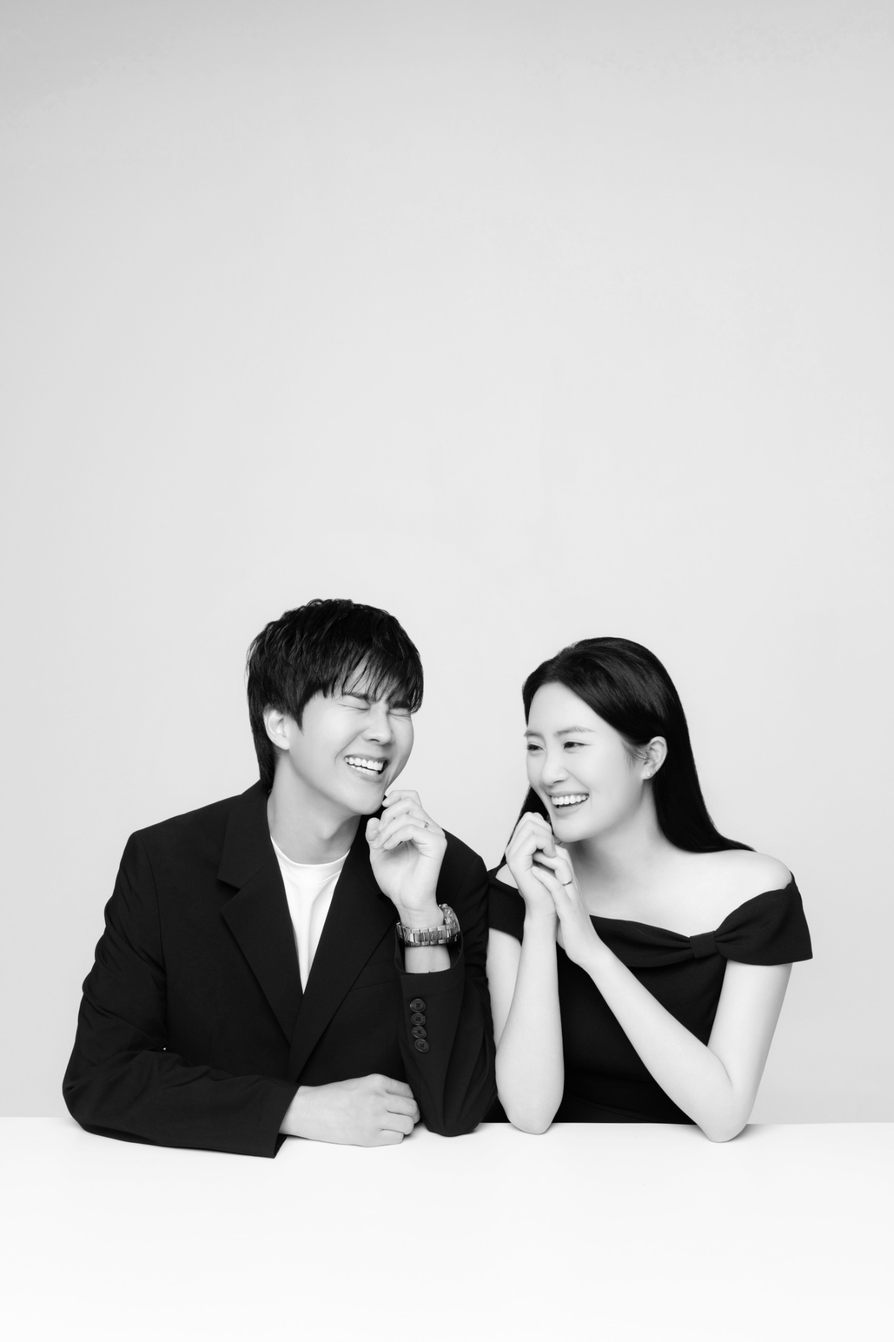
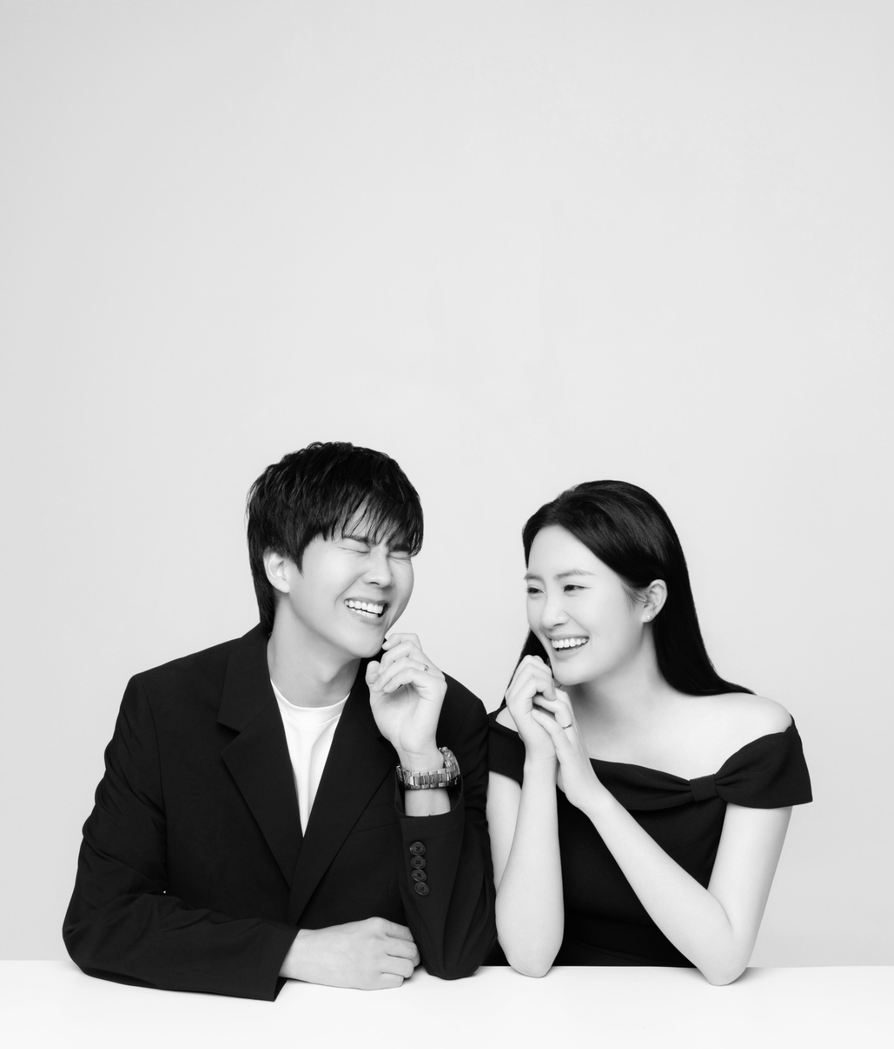
Add files via upload

Changed region(s): [[0.0, 0.4062, 1.0, 0.9688]]

diff --git a/style.css b/style.css
@@ -1,4 +1,4 @@
-@font-face{font-family:"Ortica";src:url("./assets/OrticaLinear-Light.otf") format("opentype");font-weight:400;font-style:normal;font-display:swap;}:root{--orange:#FF650B;--black:#111111;--fg:#c7c1be;--muted:#908986;--copper:#ab7e6d;--line:#353332;--font:'Pretendard',sans-serif;--display:'Italiana','Playfair Display',serif}@font-face{font-family:'BodoniCustom';src:url('./assets/Bodoni-11-Book.otf?v=12') format('opentype');font-weight:100;font-style:normal;font-display:swap;}*{box-sizing:border-box}html{scroll-behavior:smooth}body{margin:0;background:#e9e9e9;color:var(--fg);font-family:var(--font);-webkit-font-smoothing:antialiased}button,input,textarea{font:inherit}button{cursor:pointer}button:focus-visible,a:focus-visible,input:focus-visible{outline:2px solid var(--orange);outline-offset:3px}a{color:inherit;text-decoration:none}.page{width:min(100%,430px);margin:auto;background:var(--black);min-height:100vh;overflow:hidden;position:relative}.site-header{position:fixed;z-index:20;top:0;left:50%;transform:translateX(-50%);width:min(100%,430px);height:52px;background:var(--orange);color:#f7e7dd;display:flex;align-items:center;justify-content:flex-end;padding:0 23px;font-family:'Playfair Display',serif;font-size:22px;transition:background .25s,color .25s}.site-header.over-photo{background:transparent;color:#fff}.icon-button{border:0;background:none;color:inherit;padding:2px}.icon-button svg{width:23px;height:23px;fill:none;stroke:currentColor;stroke-width:1.6}.menu{position:fixed;z-index:19;top:52px;left:50%;transform:translateX(-50%) translateY(-110%);width:min(100%,430px);background:#1c1b1b;color:#eee;padding:18px 30px;display:grid;gap:20px;transition:transform .3s}.menu.open{transform:translateX(-50%) translateY(0)}.menu a{font-family:var(--display);font-size:24px}.audio-toggle{position:fixed;z-index:22;top:14px;right:max(12px,calc((100vw - 430px)/2 + 14px));background:rgba(20,20,20,.18);border:0;border-radius:50%;width:37px;height:37px;display:grid;place-items:center;color:#fafafa}.audio-toggle svg{width:21px;height:21px;fill:none;stroke:currentColor;stroke-width:1.5}.cover{background:var(--orange);min-height:100svh;display:flex;flex-direction:column;text-align:center;color:#130b06}.cover-top{padding-top:52px;background:var(--orange)}.cover-inner{display:flex;flex-direction:column;align-items:center;justify-content:flex-start;padding:18px 18px 18px;background:var(--orange)}.cover-photo{width:100%;margin:0;padding:0 0 20px;background:var(--orange);overflow:hidden}.cover-photo img{display:block;width:100%;height:auto;max-width:none;max-height:none;object-fit:unset;filter:grayscale(1);transform:none;clip-path:inset(70px 0 0 0)}.cover-meta{background:var(--orange);margin-top:-6px;padding:8px 18px 20px;text-align:center}.cover-datetime{margin:0 0 8px;display:flex;align-items:baseline;justify-content:center;gap:8px;flex-wrap:wrap}.cover-date{font-family:'Pretendard',sans-serif;font-size:30px;font-weight:500;letter-spacing:.015em;line-height:1;color:#8F421E}.cover-when{font-family:'Pretendard','Apple SD Gothic Neo',sans-serif;font-size:15px;letter-spacing:.04em;color:#8F421E}.cover-where{font-family:'Pretendard','Apple SD Gothic Neo',sans-serif;font-size:15px;letter-spacing:.04em;color:#8F421E;margin:0}.intro-meta{font-family:'Pretendard','Apple SD Gothic Neo',sans-serif;font-size:15px;letter-spacing:.04em;color:#8F421E}.cover-kicker{font-size:12px;color:#8F421E !important;margin:0 0 22px;letter-spacing:.15em;font-weight:400;transform:translateY(-8px)}.couple{display:flex;flex-direction:column;align-items:center;font-family:'BodoniCustom','Bodoni 72','Times New Roman',serif;font-size:24px;letter-spacing:-.015em;font-weight:400;line-height:1.08;margin:0;color:#121212;white-space:nowrap;text-rendering:optimizeLegibility;-webkit-font-smoothing:antialiased;-moz-osx-font-smoothing:grayscale}.couple span{display:block;font-family:'BodoniCustom','Bodoni 72','Times New Roman',serif;font-weight:400}.couple em{font-family:'BodoniCustom','Bodoni 72','Times New Roman',serif;font-style:normal;font-size:17px;line-height:1.9;color:rgba(78,40,16,.72);font-weight:200}.cover-date{font-family:'Pretendard',sans-serif;font-size:30px;font-weight:500;letter-spacing:.015em;line-height:1;margin:0 0 8px;color:#8F421E}.cover-when,.cover-where{font-family:'Pretendard','Apple SD Gothic Neo',sans-serif;font-size:15px;letter-spacing:.04em;color:#8F421E}.cover-when{margin:0 0 8px}.cover-where{margin:0}.dark-content{background:var(--black)}.section{padding:110px 22px;text-align:center;scroll-margin-top:50px}.display{font-family:var(--display);font-weight:400;letter-spacing:-.04em}.intro{min-height:511px;display:flex;flex-direction:column;align-items:center;justify-content:flex-start;padding-top:84px}.display-intro{font-family:"Ortica","Noto Sans KR",sans-serif;font-size:1.875rem;font-weight:400;line-height:1.375;letter-spacing:-.04em;color:#D4CFC8;text-align:center;white-space:pre-line;opacity:1;margin:0;-webkit-font-smoothing:antialiased}.display-intro i{font-style:normal}.family{margin-top:118px;font-size:15px;line-height:2.7}.family p{margin:0}.family strong{color:#e0dcda;font-weight:600}.family small{font-size:11px;color:#878080;margin:0 8px}.eyebrow{font:400 11px 'DM Sans',sans-serif;letter-spacing:.22em;color:var(--copper);margin:0}.invitation-note{padding-top:51px;padding-bottom:105px}.poem{margin-top:52px;text-align:left;padding:0 15px;color:#bbb5b2;font-size:16px;line-height:2.05}.poem p{margin:0}.poem span{font-size:12px;display:block;margin-top:2px;color:#8c8581}.invite-copy{text-align:center;padding:0 15px;margin-top:52px;font-size:15px;line-height:2.15;color:#aea8a5}.invite-copy p+p{margin-top:25px}.calendar-section{padding-top:76px;padding-bottom:100px}.date-title{font-family:'Pretendard',sans-serif;font-size:30px;font-weight:500;letter-spacing:.015em;line-height:1;margin:0}.date-sub{font-weight:500;font-size:17px;margin:9px 0 31px}.calendar{border-top:1px solid #333;padding-top:24px;display:grid;grid-template-columns:repeat(7,1fr);row-gap:12px}.day-label,.calendar-day{height:34px;display:grid;place-items:center;font:17px 'Playfair Display',serif;color:#98918c}.day-label{font-size:15px}.calendar .sunday,.calendar .holiday{color:#c2584f}.calendar .selected{border-radius:50%;background:#c8c4bf;color:#fff;width:35px;margin:auto}.gallery-section{padding:65px 15px 110px}.gallery-grid{display:grid;grid-template-columns:repeat(3,minmax(0,1fr));gap:2px;margin-top:40px}.gallery-item{position:relative;aspect-ratio:1/1.16;border:0;padding:0;background:#35312f;color:#ddd;overflow:hidden}.gallery-item img{width:100%;height:100%;object-fit:cover;display:block}.gallery-item .missing{position:absolute;inset:0;display:grid;place-items:center;color:#777;font:22px var(--display)}.gallery-item img:not([style*='none'])+.missing{display:none}.more-overlay{position:absolute;inset:0;background:rgba(0,0,0,.55);display:flex;align-items:center;justify-content:center;flex-direction:column;font:18px var(--display);letter-spacing:.2em}.more-overlay small{font:10px var(--font);letter-spacing:.25em;margin-top:4px}.letters-section{padding-top:90px;padding-bottom:135px}.section-heading{font-size:44px;margin:0 0 25px}.support-copy{font-size:15px;line-height:2;color:#aaa29e}.envelope{position:relative;width:min(100%,275px);height:180px;background:#ede9db;margin:44px auto 0;border:0;box-shadow:0 5px 22px rgba(0,0,0,.25);color:#383431;overflow:hidden}.envelope:before,.envelope:after{content:'';position:absolute;bottom:-75px;width:260px;height:260px;border:1px solid #c9c3b5;transform:rotate(45deg)}.envelope:before{left:-196px}.envelope:after{right:-196px}.envelope-top{position:absolute;top:-137px;left:25px;width:225px;height:225px;transform:rotate(45deg);border-right:2px solid #bbb5a8;border-bottom:2px solid #bbb5a8}.envelope-text{position:relative;display:grid;gap:14px;z-index:1;place-items:center}.envelope-text small{letter-spacing:.2em;color:#a49d90;font-size:9px}.envelope-text b{font:25px/1.1 var(--display)}.hint{font-size:12px;color:#69625f;margin:13px 0 42px}.pill{min-width:154px;border:1px solid #5d5957;border-radius:60px;background:#2a2929;color:#ddd;padding:17px 28px;font-size:14px;letter-spacing:.07em}.pill:active{transform:scale(.98)}.location-section{padding-top:85px;padding-bottom:95px}.location-name{font-size:22px;margin:43px 0 9px;color:#dad4d0}.location-detail{font-size:15px;line-height:1.9;color:#89817c;margin:0 0 34px}.kakao-map{height:226px;background:#e8e4dc;color:#777;display:grid;place-items:center}.map-placeholder{font-size:13px;padding:20px}.map-links{display:flex;gap:6px;margin-top:26px}.map-links a{flex:1;min-width:0;border:1px solid #494747;background:#252424;border-radius:35px;padding:12px 1px;font-size:12px;color:#c8c1bd}.transit{margin-top:48px;font-size:14px;line-height:1.9;color:#96908c}.transit h3{font-size:15px;margin:36px 0 8px;color:#c9c3c0}.transit p{margin:0}.rsvp-section{padding:110px 17px 120px}.rsvp-section .support-copy{margin-bottom:43px}.account-section{padding:60px 22px 100px}.account-section>.support-copy{margin:37px 0 50px}.accordion-title{width:100%;padding:18px 0;border:0;background:none;color:#d2cbc7;text-align:left;font-weight:600;font-size:15px;display:flex;justify-content:space-between}.accordion-title span{font-size:26px;line-height:15px;color:#999}.accordion-body{display:none;text-align:left}.accordion-title[aria-expanded=true]+.accordion-body{display:block}.bank-row{padding:23px 8px 23px 12px;display:flex;justify-content:space-between;align-items:center;background:#151515;margin:5px 0}.bank-row strong,.bank-row small{display:block}.bank-row strong{font-size:14px}.bank-row small{color:#89827e;font-size:12px;margin-top:8px}.bank-row button{background:#262626;border:1px solid #4d4a49;color:#ddd;width:36px;height:36px;font-size:24px}.gratitude-section{background:#0d0d0d;padding:112px 22px 105px;font-size:15px;line-height:2;color:#96908b}.gratitude-section h2{font-size:18px;font-weight:500;margin:45px 0 23px;color:#d7d0cc}.gratitude-section p:not(.eyebrow){margin:18px 0 34px}.footer{background:#0b0b0b;padding:80px 20px 27px}.footer>.support-copy{margin:23px 0 39px}.share-actions{display:flex;justify-content:center;gap:37px}.share-actions button{border:0;background:none;color:#a19a95;font-size:10px;letter-spacing:.2em;display:grid;justify-items:center;gap:11px}.share-circle{width:45px;height:45px;border-radius:50%;background:#212121;display:grid;place-items:center}.share-circle svg{width:23px;height:23px;fill:none;stroke:#bdb5b0;stroke-width:1.5}.share-actions button:first-child svg{fill:#bdb5b0;stroke:none}.copyright{margin-top:115px;color:#5c5551;font-size:10px;letter-spacing:.12em}.overlay{position:fixed;z-index:100;inset:0;background:rgba(0,0,0,.8);display:flex;align-items:center;justify-content:center;padding:20px}.overlay[hidden]{display:none!important}.dialog{width:min(100%,340px);background:#1e1c1c;border:1px solid #5c514c;text-align:center;padding:45px 25px;color:#e3dcd7}.dialog h2{font:57px var(--display);margin:25px 0}.dialog p:not(.eyebrow){line-height:2}.light-pill{background:#e9e5df;color:#24201d;margin-top:26px}.lightbox-shell{max-width:600px;width:100%;position:relative;text-align:center}.lightbox-shell img{max-width:100%;max-height:75dvh;object-fit:contain}.modal-x{position:absolute;right:12px;top:12px;font-size:30px;color:#eee;background:transparent;border:0;z-index:2}.lightbox-controls{display:flex;align-items:center;justify-content:center;gap:35px;margin-top:15px}.lightbox-controls button,.letter-pagination button{background:none;border:0;color:#eee;font-size:30px}.letter-sheet{width:min(100%,350px);max-height:83dvh;overflow:auto;position:relative;background:#eeeae0;color:#282321;padding:42px 24px 35px;text-align:center;border-radius:3px}.letter-sheet .modal-x{color:#333}.letter-sheet h2{font-size:32px;margin:0 0 35px}.letter-messages{display:grid;grid-template-columns:repeat(2,minmax(0,1fr));gap:22px 20px;min-height:250px;text-align:left}.letter-message{font-size:13px;line-height:1.5;overflow-wrap:anywhere}.letter-message small{display:block;text-align:right;color:#aaa;margin-top:8px}.letter-pagination{display:flex;justify-content:center;align-items:center;gap:22px;color:#777}.letter-pagination button{color:#666}.sheet-overlay{align-items:end;padding:0}.bottom-sheet{width:min(100%,430px);max-height:92dvh;overflow:auto;position:relative;background:#f8f6f3;color:#222;padding:20px 24px 34px;border-radius:18px 18px 0 0}.sheet-handle{width:35px;height:4px;border-radius:5px;background:#ccc;margin:0 auto 20px}.bottom-sheet .modal-x{color:#444}.bottom-sheet h2{text-align:center;font-size:38px;margin:10px 0}.form-intro{text-align:center;color:#888;margin-bottom:29px}.bottom-sheet fieldset{border:0;padding:0;margin:0 0 26px}.bottom-sheet legend,.field-label{font-size:14px;font-weight:600;margin-bottom:12px;display:block}.bottom-sheet em{color:#cc6148;font-style:normal}.choice{display:flex;gap:7px}.choice label{flex:1;cursor:pointer}.choice input{position:absolute;opacity:0}.choice span{display:block;text-align:center;border:1px solid #ddd;background:#fff;border-radius:6px;padding:13px 3px;font-size:13px}.choice input:checked+span{border-color:#191919;background:#232323;color:#fff}.field-label{margin-top:22px}.field-label input,.field-label textarea{display:block;width:100%;margin-top:10px;padding:14px;border:1px solid #d6d3ce;background:white;border-radius:5px;color:#222}.stepper{margin-top:12px;display:flex;align-items:center;justify-content:space-between;max-width:155px}.stepper button{border:1px solid #ccc;background:#fff;width:34px;height:34px;border-radius:50%}.form-error{min-height:20px;color:#b83a26;font-size:12px}.submit{display:block;width:100%;background:#222;color:white;margin-top:20px}.submit:disabled{opacity:.4;cursor:not-allowed}.toast{position:fixed;z-index:200;bottom:30px;left:50%;transform:translateX(-50%) translateY(100px);background:#f6f3ee;color:#222;border-radius:8px;padding:13px 21px;font-size:13px;opacity:0;transition:.25s;pointer-events:none}.toast.show{opacity:1;transform:translateX(-50%) translateY(0)}body.modal-open{overflow:hidden}@media(min-width:600px){.cover{min-height:850px;height:auto}.cover-top{padding-top:34px}.cover-inner{padding:30px 20px 22px}.cover-meta{margin-top:-6px;padding:12px 20px 24px}}@media(max-width:360px){.cover-datetime{gap:6px}.cover-when,.cover-where{font-size:14px}.couple{font-size:24px}.cover-date{font-size:14px}.cover-inner{padding:16px 16px 16px}.cover-meta{margin-top:-6px;padding:8px 16px 20px}.family{font-size:13px}.display-intro{font-size:1.875rem}.map-links a{font-size:11px}.poem{font-size:14px}.share-actions{gap:24px}}@media(prefers-reduced-motion:reduce){html{scroll-behavior:auto}*{transition:none!important}}
+@font-face{font-family:"Ortica";src:url("./assets/OrticaLinear-Light.otf") format("opentype");font-weight:400;font-style:normal;font-display:swap;}:root{--orange:#FF650B;--black:#111111;--fg:#c7c1be;--muted:#908986;--copper:#ab7e6d;--line:#353332;--font:'Pretendard',sans-serif;--display:'Italiana','Playfair Display',serif}@font-face{font-family:'BodoniCustom';src:url('./assets/Bodoni-11-Book.otf?v=12') format('opentype');font-weight:100;font-style:normal;font-display:swap;}*{box-sizing:border-box}html{scroll-behavior:smooth}body{margin:0;background:#e9e9e9;color:var(--fg);font-family:var(--font);-webkit-font-smoothing:antialiased}button,input,textarea{font:inherit}button{cursor:pointer}button:focus-visible,a:focus-visible,input:focus-visible{outline:2px solid var(--orange);outline-offset:3px}a{color:inherit;text-decoration:none}.page{width:min(100%,430px);margin:auto;background:var(--black);min-height:100vh;overflow:hidden;position:relative}.site-header{position:fixed;z-index:20;top:0;left:50%;transform:translateX(-50%);width:min(100%,430px);height:52px;background:var(--orange);color:#f7e7dd;display:flex;align-items:center;justify-content:flex-end;padding:0 23px;font-family:'Playfair Display',serif;font-size:22px;transition:background .25s,color .25s}.site-header.over-photo{background:transparent;color:#fff}.icon-button{border:0;background:none;color:inherit;padding:2px}.icon-button svg{width:23px;height:23px;fill:none;stroke:currentColor;stroke-width:1.6}.menu{position:fixed;z-index:19;top:52px;left:50%;transform:translateX(-50%) translateY(-110%);width:min(100%,430px);background:#1c1b1b;color:#eee;padding:18px 30px;display:grid;gap:20px;transition:transform .3s}.menu.open{transform:translateX(-50%) translateY(0)}.menu a{font-family:var(--display);font-size:24px}.audio-toggle{position:fixed;z-index:22;top:14px;right:max(12px,calc((100vw - 430px)/2 + 14px));background:rgba(20,20,20,.18);border:0;border-radius:50%;width:37px;height:37px;display:grid;place-items:center;color:#fafafa}.audio-toggle svg{width:21px;height:21px;fill:none;stroke:currentColor;stroke-width:1.5}.cover{background:var(--orange);min-height:100svh;display:flex;flex-direction:column;text-align:center;color:#130b06}.cover-top{padding-top:52px;background:var(--orange)}.cover-inner{display:flex;flex-direction:column;align-items:center;justify-content:flex-start;padding:18px 18px 18px;background:var(--orange)}.cover-photo{width:100%;margin:0;padding:0 0 20px;background:var(--orange);overflow:hidden}.cover-photo img{display:block;width:100%;height:auto;max-width:none;max-height:none;object-fit:unset;filter:grayscale(1);transform:none;clip-path:none}.cover-meta{background:var(--orange);margin-top:-6px;padding:8px 18px 20px;text-align:center}.cover-datetime{margin:0 0 8px;display:flex;align-items:baseline;justify-content:center;gap:8px;flex-wrap:wrap}.cover-date{font-family:'Pretendard',sans-serif;font-size:30px;font-weight:500;letter-spacing:.015em;line-height:1;color:#8F421E}.cover-when{font-family:'Pretendard','Apple SD Gothic Neo',sans-serif;font-size:15px;letter-spacing:.04em;color:#8F421E}.cover-where{font-family:'Pretendard','Apple SD Gothic Neo',sans-serif;font-size:15px;letter-spacing:.04em;color:#8F421E;margin:0}.intro-meta{font-family:'Pretendard','Apple SD Gothic Neo',sans-serif;font-size:15px;letter-spacing:.04em;color:#8F421E}.cover-kicker{font-size:12px;color:#8F421E !important;margin:0 0 22px;letter-spacing:.15em;font-weight:400;transform:translateY(-8px)}.couple{display:flex;flex-direction:column;align-items:center;font-family:'BodoniCustom','Bodoni 72','Times New Roman',serif;font-size:24px;letter-spacing:-.015em;font-weight:400;line-height:1.08;margin:0;color:#121212;white-space:nowrap;text-rendering:optimizeLegibility;-webkit-font-smoothing:antialiased;-moz-osx-font-smoothing:grayscale}.couple span{display:block;font-family:'BodoniCustom','Bodoni 72','Times New Roman',serif;font-weight:400}.couple em{font-family:'BodoniCustom','Bodoni 72','Times New Roman',serif;font-style:normal;font-size:17px;line-height:1.9;color:rgba(78,40,16,.72);font-weight:200}.cover-date{font-family:'Pretendard',sans-serif;font-size:30px;font-weight:500;letter-spacing:.015em;line-height:1;margin:0 0 8px;color:#8F421E}.cover-when,.cover-where{font-family:'Pretendard','Apple SD Gothic Neo',sans-serif;font-size:15px;letter-spacing:.04em;color:#8F421E}.cover-when{margin:0 0 8px}.cover-where{margin:0}.dark-content{background:var(--black)}.section{padding:110px 22px;text-align:center;scroll-margin-top:50px}.display{font-family:var(--display);font-weight:400;letter-spacing:-.04em}.intro{min-height:511px;display:flex;flex-direction:column;align-items:center;justify-content:flex-start;padding-top:84px}.display-intro{font-family:"Ortica","Noto Sans KR",sans-serif;font-size:1.875rem;font-weight:400;line-height:1.375;letter-spacing:-.04em;color:#D4CFC8;text-align:center;white-space:pre-line;opacity:1;margin:0;-webkit-font-smoothing:antialiased}.display-intro i{font-style:normal}.family{margin-top:118px;font-size:15px;line-height:2.7}.family p{margin:0}.family strong{color:#e0dcda;font-weight:600}.family small{font-size:11px;color:#878080;margin:0 8px}.eyebrow{font:400 11px 'DM Sans',sans-serif;letter-spacing:.22em;color:var(--copper);margin:0}.invitation-note{padding-top:51px;padding-bottom:105px}.poem{margin-top:52px;text-align:left;padding:0 15px;color:#bbb5b2;font-size:16px;line-height:2.05}.poem p{margin:0}.poem span{font-size:12px;display:block;margin-top:2px;color:#8c8581}.invite-copy{text-align:center;padding:0 15px;margin-top:52px;font-size:15px;line-height:2.15;color:#aea8a5}.invite-copy p+p{margin-top:25px}.calendar-section{padding-top:76px;padding-bottom:100px}.date-title{font-family:'Pretendard',sans-serif;font-size:30px;font-weight:500;letter-spacing:.015em;line-height:1;margin:0}.date-sub{font-weight:500;font-size:17px;margin:9px 0 31px}.calendar{border-top:1px solid #333;padding-top:24px;display:grid;grid-template-columns:repeat(7,1fr);row-gap:12px}.day-label,.calendar-day{height:34px;display:grid;place-items:center;font:17px 'Playfair Display',serif;color:#98918c}.day-label{font-size:15px}.calendar .sunday,.calendar .holiday{color:#c2584f}.calendar .selected{border-radius:50%;background:#c8c4bf;color:#fff;width:35px;margin:auto}.gallery-section{padding:65px 15px 110px}.gallery-grid{display:grid;grid-template-columns:repeat(3,minmax(0,1fr));gap:2px;margin-top:40px}.gallery-item{position:relative;aspect-ratio:1/1.16;border:0;padding:0;background:#35312f;color:#ddd;overflow:hidden}.gallery-item img{width:100%;height:100%;object-fit:cover;display:block}.gallery-item .missing{position:absolute;inset:0;display:grid;place-items:center;color:#777;font:22px var(--display)}.gallery-item img:not([style*='none'])+.missing{display:none}.more-overlay{position:absolute;inset:0;background:rgba(0,0,0,.55);display:flex;align-items:center;justify-content:center;flex-direction:column;font:18px var(--display);letter-spacing:.2em}.more-overlay small{font:10px var(--font);letter-spacing:.25em;margin-top:4px}.letters-section{padding-top:90px;padding-bottom:135px}.section-heading{font-size:44px;margin:0 0 25px}.support-copy{font-size:15px;line-height:2;color:#aaa29e}.envelope{position:relative;width:min(100%,275px);height:180px;background:#ede9db;margin:44px auto 0;border:0;box-shadow:0 5px 22px rgba(0,0,0,.25);color:#383431;overflow:hidden}.envelope:before,.envelope:after{content:'';position:absolute;bottom:-75px;width:260px;height:260px;border:1px solid #c9c3b5;transform:rotate(45deg)}.envelope:before{left:-196px}.envelope:after{right:-196px}.envelope-top{position:absolute;top:-137px;left:25px;width:225px;height:225px;transform:rotate(45deg);border-right:2px solid #bbb5a8;border-bottom:2px solid #bbb5a8}.envelope-text{position:relative;display:grid;gap:14px;z-index:1;place-items:center}.envelope-text small{letter-spacing:.2em;color:#a49d90;font-size:9px}.envelope-text b{font:25px/1.1 var(--display)}.hint{font-size:12px;color:#69625f;margin:13px 0 42px}.pill{min-width:154px;border:1px solid #5d5957;border-radius:60px;background:#2a2929;color:#ddd;padding:17px 28px;font-size:14px;letter-spacing:.07em}.pill:active{transform:scale(.98)}.location-section{padding-top:85px;padding-bottom:95px}.location-name{font-size:22px;margin:43px 0 9px;color:#dad4d0}.location-detail{font-size:15px;line-height:1.9;color:#89817c;margin:0 0 34px}.kakao-map{height:226px;background:#e8e4dc;color:#777;display:grid;place-items:center}.map-placeholder{font-size:13px;padding:20px}.map-links{display:flex;gap:6px;margin-top:26px}.map-links a{flex:1;min-width:0;border:1px solid #494747;background:#252424;border-radius:35px;padding:12px 1px;font-size:12px;color:#c8c1bd}.transit{margin-top:48px;font-size:14px;line-height:1.9;color:#96908c}.transit h3{font-size:15px;margin:36px 0 8px;color:#c9c3c0}.transit p{margin:0}.rsvp-section{padding:110px 17px 120px}.rsvp-section .support-copy{margin-bottom:43px}.account-section{padding:60px 22px 100px}.account-section>.support-copy{margin:37px 0 50px}.accordion-title{width:100%;padding:18px 0;border:0;background:none;color:#d2cbc7;text-align:left;font-weight:600;font-size:15px;display:flex;justify-content:space-between}.accordion-title span{font-size:26px;line-height:15px;color:#999}.accordion-body{display:none;text-align:left}.accordion-title[aria-expanded=true]+.accordion-body{display:block}.bank-row{padding:23px 8px 23px 12px;display:flex;justify-content:space-between;align-items:center;background:#151515;margin:5px 0}.bank-row strong,.bank-row small{display:block}.bank-row strong{font-size:14px}.bank-row small{color:#89827e;font-size:12px;margin-top:8px}.bank-row button{background:#262626;border:1px solid #4d4a49;color:#ddd;width:36px;height:36px;font-size:24px}.gratitude-section{background:#0d0d0d;padding:112px 22px 105px;font-size:15px;line-height:2;color:#96908b}.gratitude-section h2{font-size:18px;font-weight:500;margin:45px 0 23px;color:#d7d0cc}.gratitude-section p:not(.eyebrow){margin:18px 0 34px}.footer{background:#0b0b0b;padding:80px 20px 27px}.footer>.support-copy{margin:23px 0 39px}.share-actions{display:flex;justify-content:center;gap:37px}.share-actions button{border:0;background:none;color:#a19a95;font-size:10px;letter-spacing:.2em;display:grid;justify-items:center;gap:11px}.share-circle{width:45px;height:45px;border-radius:50%;background:#212121;display:grid;place-items:center}.share-circle svg{width:23px;height:23px;fill:none;stroke:#bdb5b0;stroke-width:1.5}.share-actions button:first-child svg{fill:#bdb5b0;stroke:none}.copyright{margin-top:115px;color:#5c5551;font-size:10px;letter-spacing:.12em}.overlay{position:fixed;z-index:100;inset:0;background:rgba(0,0,0,.8);display:flex;align-items:center;justify-content:center;padding:20px}.overlay[hidden]{display:none!important}.dialog{width:min(100%,340px);background:#1e1c1c;border:1px solid #5c514c;text-align:center;padding:45px 25px;color:#e3dcd7}.dialog h2{font:57px var(--display);margin:25px 0}.dialog p:not(.eyebrow){line-height:2}.light-pill{background:#e9e5df;color:#24201d;margin-top:26px}.lightbox-shell{max-width:600px;width:100%;position:relative;text-align:center}.lightbox-shell img{max-width:100%;max-height:75dvh;object-fit:contain}.modal-x{position:absolute;right:12px;top:12px;font-size:30px;color:#eee;background:transparent;border:0;z-index:2}.lightbox-controls{display:flex;align-items:center;justify-content:center;gap:35px;margin-top:15px}.lightbox-controls button,.letter-pagination button{background:none;border:0;color:#eee;font-size:30px}.letter-sheet{width:min(100%,350px);max-height:83dvh;overflow:auto;position:relative;background:#eeeae0;color:#282321;padding:42px 24px 35px;text-align:center;border-radius:3px}.letter-sheet .modal-x{color:#333}.letter-sheet h2{font-size:32px;margin:0 0 35px}.letter-messages{display:grid;grid-template-columns:repeat(2,minmax(0,1fr));gap:22px 20px;min-height:250px;text-align:left}.letter-message{font-size:13px;line-height:1.5;overflow-wrap:anywhere}.letter-message small{display:block;text-align:right;color:#aaa;margin-top:8px}.letter-pagination{display:flex;justify-content:center;align-items:center;gap:22px;color:#777}.letter-pagination button{color:#666}.sheet-overlay{align-items:end;padding:0}.bottom-sheet{width:min(100%,430px);max-height:92dvh;overflow:auto;position:relative;background:#f8f6f3;color:#222;padding:20px 24px 34px;border-radius:18px 18px 0 0}.sheet-handle{width:35px;height:4px;border-radius:5px;background:#ccc;margin:0 auto 20px}.bottom-sheet .modal-x{color:#444}.bottom-sheet h2{text-align:center;font-size:38px;margin:10px 0}.form-intro{text-align:center;color:#888;margin-bottom:29px}.bottom-sheet fieldset{border:0;padding:0;margin:0 0 26px}.bottom-sheet legend,.field-label{font-size:14px;font-weight:600;margin-bottom:12px;display:block}.bottom-sheet em{color:#cc6148;font-style:normal}.choice{display:flex;gap:7px}.choice label{flex:1;cursor:pointer}.choice input{position:absolute;opacity:0}.choice span{display:block;text-align:center;border:1px solid #ddd;background:#fff;border-radius:6px;padding:13px 3px;font-size:13px}.choice input:checked+span{border-color:#191919;background:#232323;color:#fff}.field-label{margin-top:22px}.field-label input,.field-label textarea{display:block;width:100%;margin-top:10px;padding:14px;border:1px solid #d6d3ce;background:white;border-radius:5px;color:#222}.stepper{margin-top:12px;display:flex;align-items:center;justify-content:space-between;max-width:155px}.stepper button{border:1px solid #ccc;background:#fff;width:34px;height:34px;border-radius:50%}.form-error{min-height:20px;color:#b83a26;font-size:12px}.submit{display:block;width:100%;background:#222;color:white;margin-top:20px}.submit:disabled{opacity:.4;cursor:not-allowed}.toast{position:fixed;z-index:200;bottom:30px;left:50%;transform:translateX(-50%) translateY(100px);background:#f6f3ee;color:#222;border-radius:8px;padding:13px 21px;font-size:13px;opacity:0;transition:.25s;pointer-events:none}.toast.show{opacity:1;transform:translateX(-50%) translateY(0)}body.modal-open{overflow:hidden}@media(min-width:600px){.cover{min-height:850px;height:auto}.cover-top{padding-top:34px}.cover-inner{padding:30px 20px 22px}.cover-meta{margin-top:-6px;padding:12px 20px 24px}}@media(max-width:360px){.cover-datetime{gap:6px}.cover-when,.cover-where{font-size:14px}.couple{font-size:24px}.cover-date{font-size:14px}.cover-inner{padding:16px 16px 16px}.cover-meta{margin-top:-6px;padding:8px 16px 20px}.family{font-size:13px}.display-intro{font-size:1.875rem}.map-links a{font-size:11px}.poem{font-size:14px}.share-actions{gap:24px}}@media(prefers-reduced-motion:reduce){html{scroll-behavior:auto}*{transition:none!important}}
 
 /* Cover date, time and venue typography */
 .intro-meta, .intro-meta .cover-date, .intro-meta .cover-when, .intro-meta .cover-where { font-family: "Pretendard", "Apple SD Gothic Neo", sans-serif; font-size: 15px; letter-spacing: 0.04em; }
@@ -199,7 +199,7 @@
   object-fit: cover;
   object-position: center top;
   transform: none;
-  clip-path: inset(70px 0 0 0);
+  clip-path: none;
   filter: grayscale(1);
 }
 
@@ -230,7 +230,7 @@
     object-fit: contain;
     object-position: center top;
     transform: none;
-    clip-path: inset(70px 0 0 0);
+    clip-path: none;
   }
 }
 
